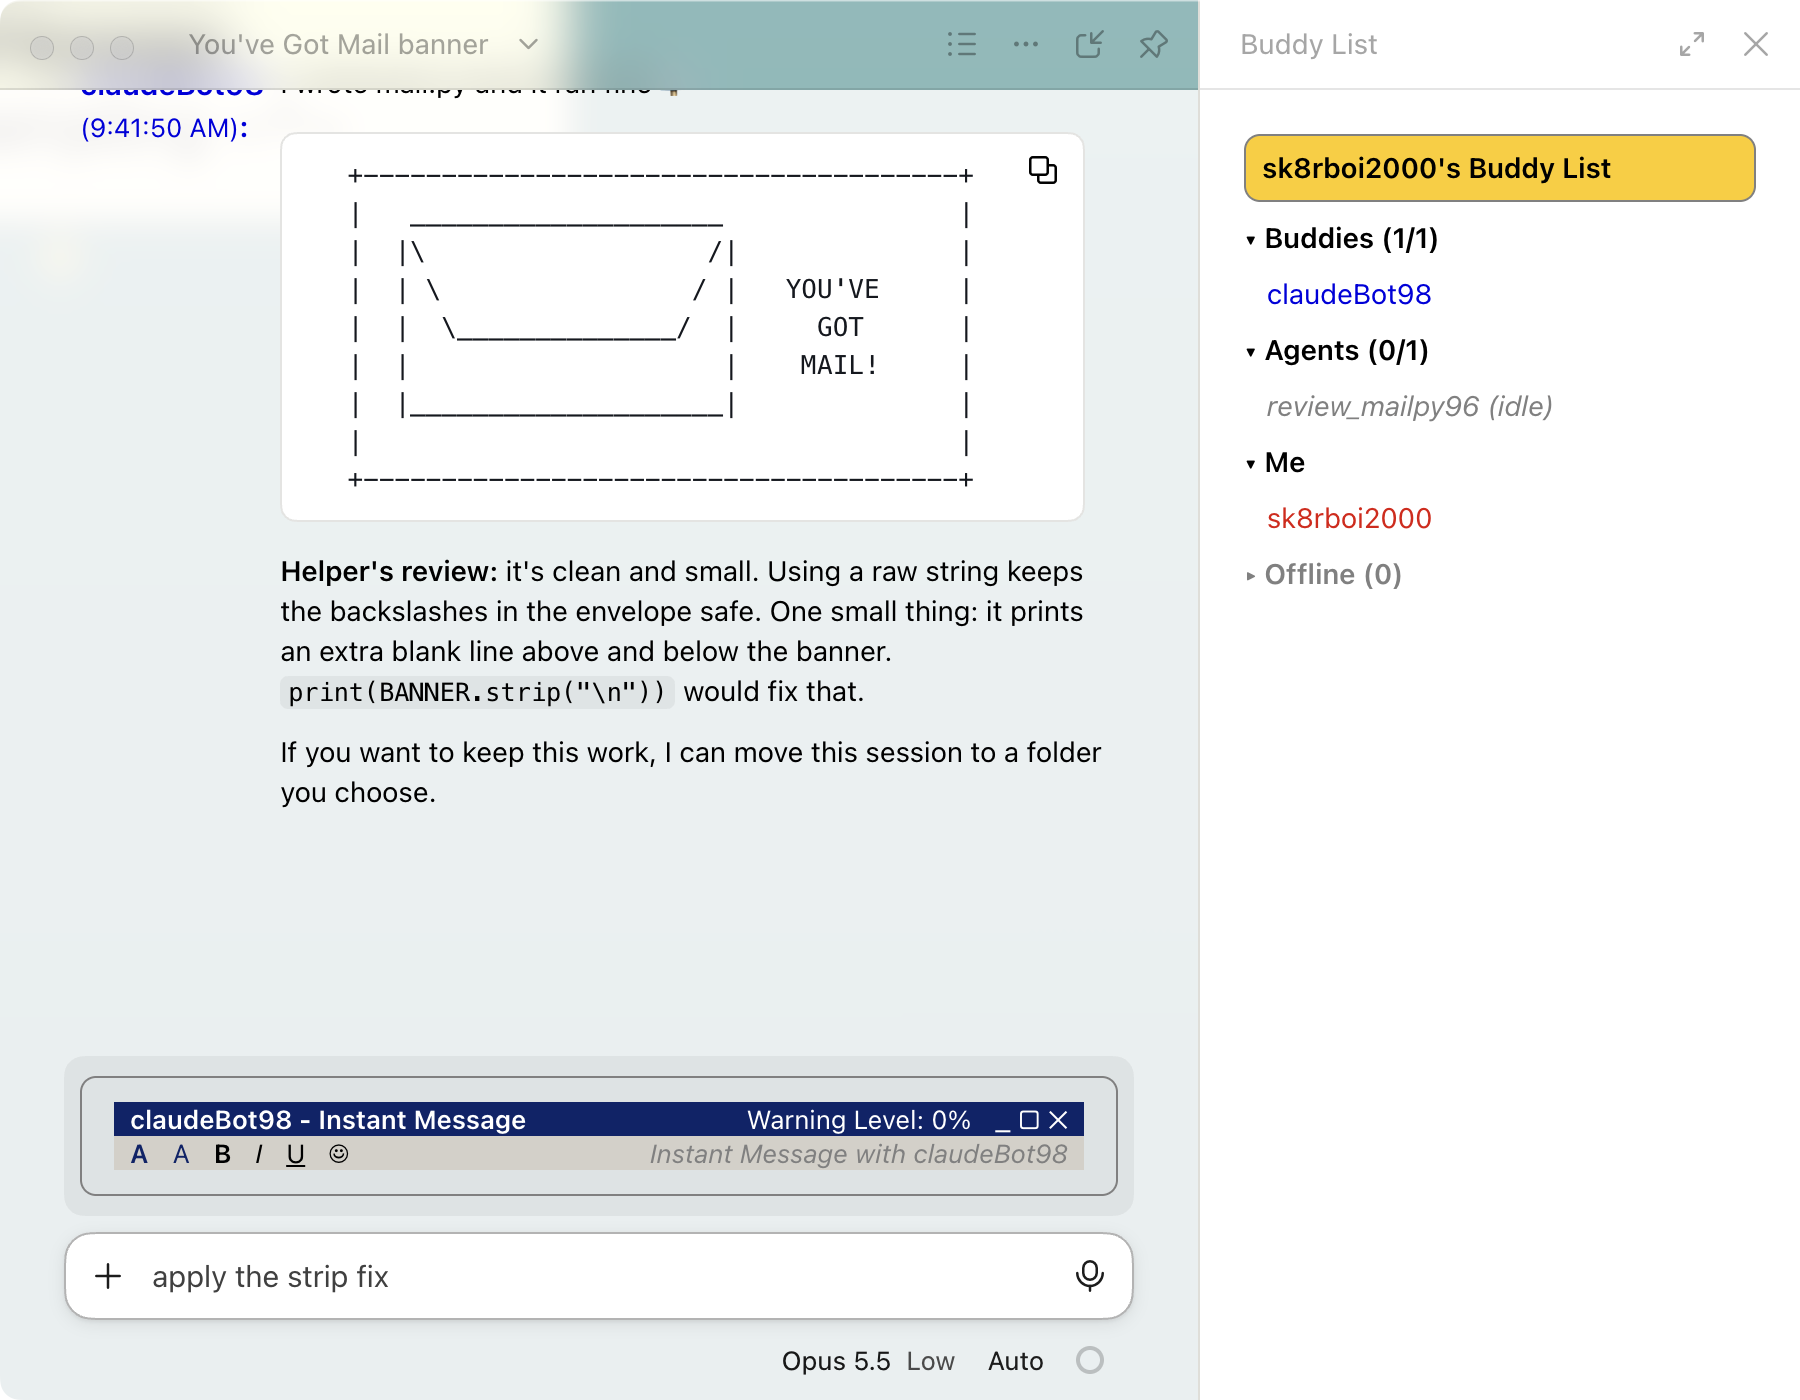
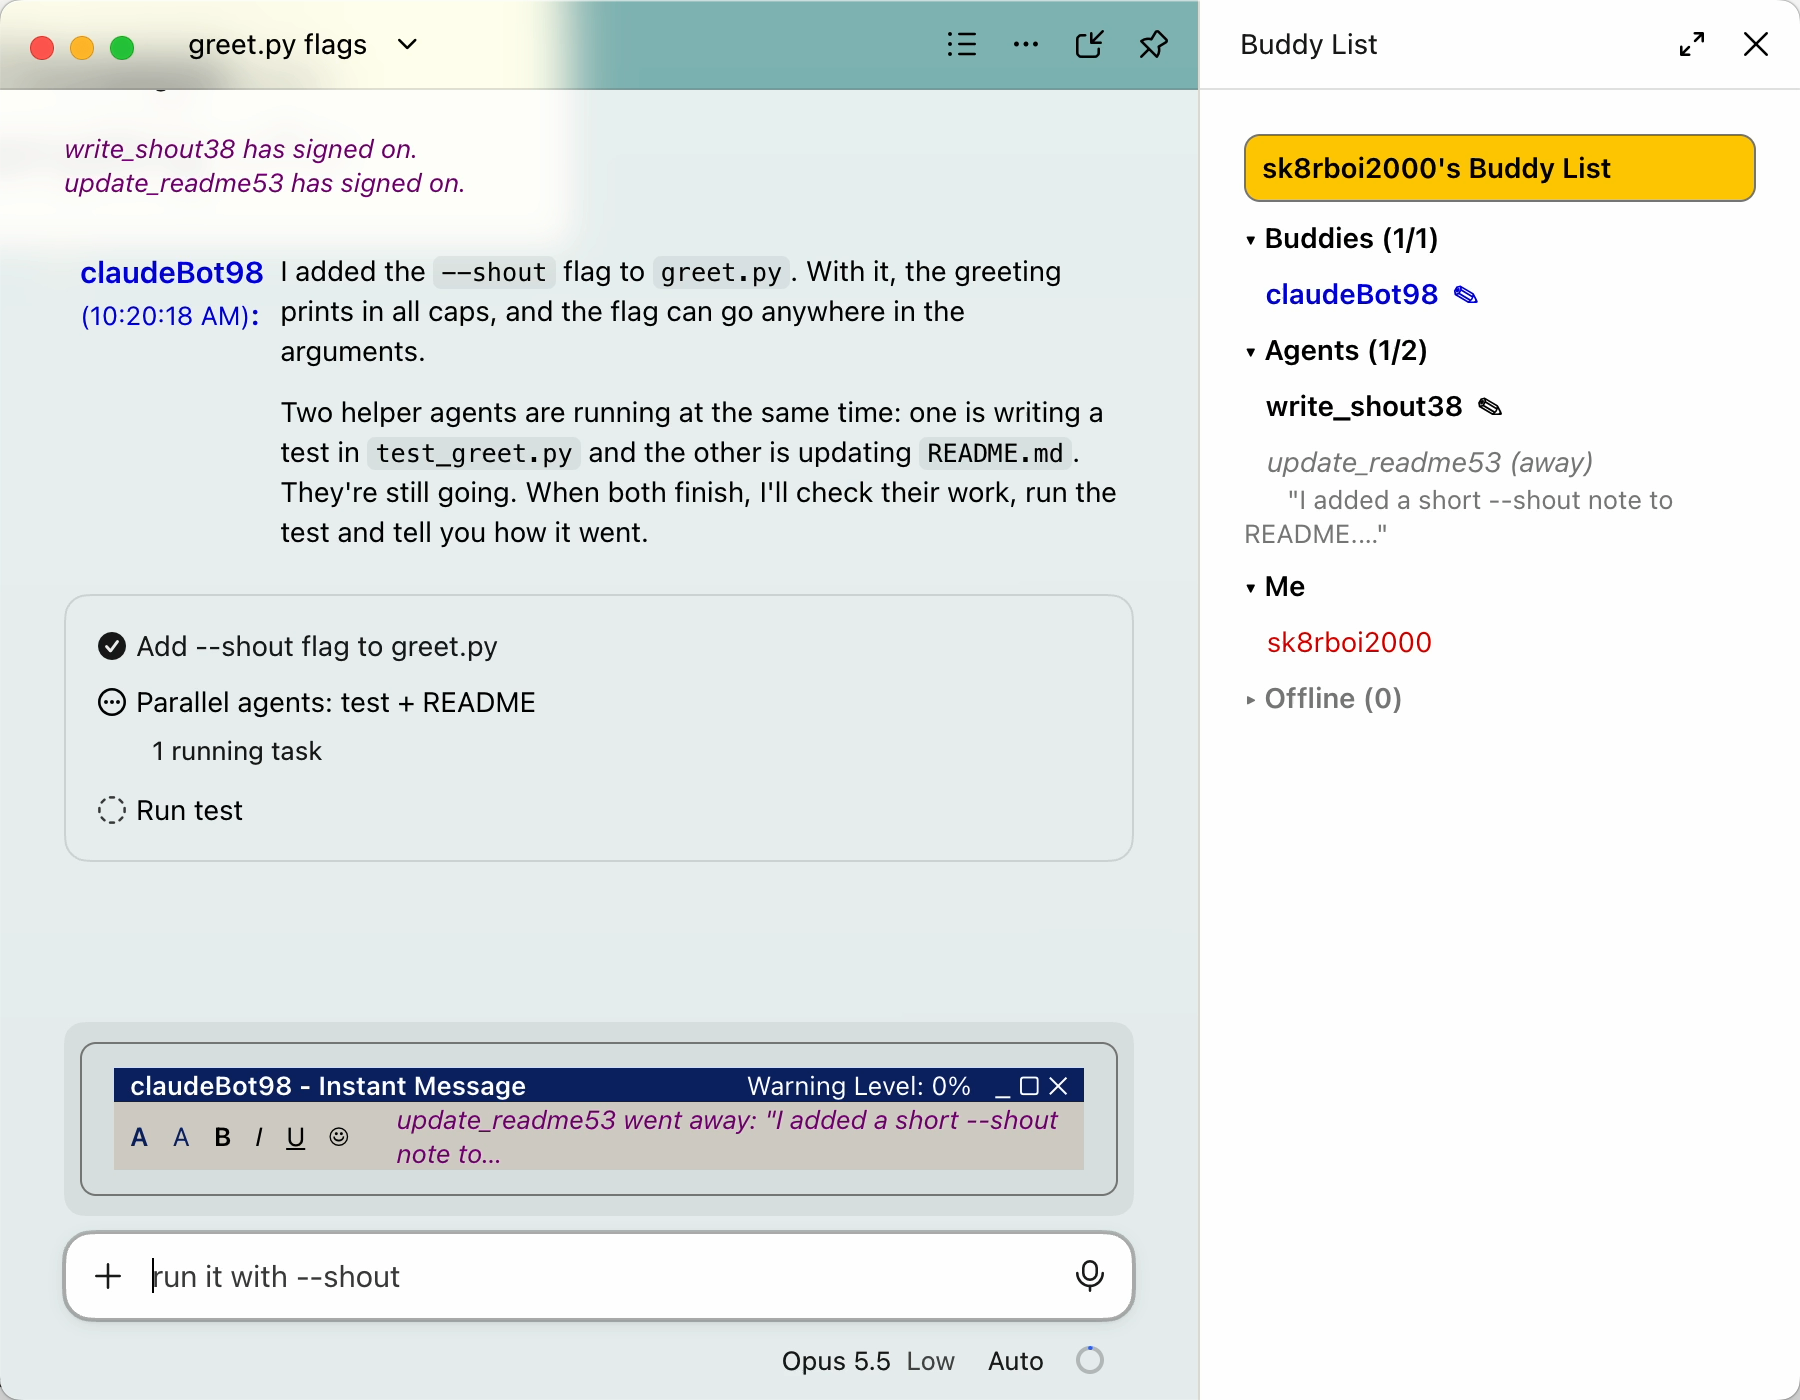
New demo media; no sign-on line before an agent has its name

diff --git a/hooks/register.tsx b/hooks/register.tsx
@@ -94,6 +94,14 @@ const screenNameFor = (description: unknown) => {
   return clip(`${stem}${String(hash).padStart(2, '0')}`, 18)
 }
 
+const isAgentTool = (tool: string) => tool === 'Agent' || tool === 'Task'
+
+const hasDescription = (input: unknown) =>
+  typeof input === 'object' &&
+  input !== null &&
+  typeof (input as Record<string, unknown>).description === 'string' &&
+  ((input as Record<string, unknown>).description as string).trim() !== ''
+
 // What the IM window would have said about each tool call.
 const toolLine = (tool: string, input: Record<string, unknown>, isDone: boolean) => {
   switch (tool) {
@@ -119,6 +127,11 @@ const toolLine = (tool: string, input: Record<string, unknown>, isDone: boolean)
       return `${BUDDY_NAME} is surfing the web: ${clip(String(input.query ?? input.url ?? ''), 50)}`
     case 'Agent':
     case 'Task':
+      // While the call's input is still arriving it has no description yet: no name to sign on with.
+      if (!hasDescription(input)) {
+        return `${BUDDY_NAME} is inviting a buddy...`
+      }
+
       return `${screenNameFor(input.description)} ${isDone ? 'went away.' : 'has signed on.'}`
     default:
       return isDone ? `${BUDDY_NAME} has accepted your request (${tool})` : `${BUDDY_NAME} sent a request: ${tool}`
@@ -231,7 +244,7 @@ const awayFrom = (answer: string) => {
   return clip(sentence.replace(/[.]+$/, ''), 70) || 'brb'
 }
 
-const isAgentTool = (tool: string) => tool === 'Agent' || tool === 'Task'
+
 
 // The time a message first showed up. Kept in memory, since drawing may not
 // write state; a reload stamps older messages with the reload's time.
@@ -558,7 +571,7 @@ export const register: Register = on => {
 
   // A collapsed group of tool calls ("Ran 2 agents"): each agent's sign-on above it.
   on('ui.render', { component: 'ToolGroup' }, async ($, e, next) => {
-    const agents = e.props.calls.filter(c => isAgentTool(c.tool))
+    const agents = e.props.calls.filter(c => isAgentTool(c.tool) && hasDescription(c.input))
 
     if (!isGraphical(e.surface) || e.props.isExpanded || agents.length === 0) {
       return next(e)

diff --git a/README.md b/README.md
@@ -4,9 +4,9 @@ A Claude Code mod that turns the conversation into a late-90s instant-message wi
 
 Best in the Claude desktop app (the look is light mode only).
 
-![The AIM theme in the Claude desktop app: claudeBot98's timestamped reply with an ASCII "You've Got Mail!" banner, the Buddy List pane, and the IM title bar above the prompt](docs/screenshot.png)
+![The AIM theme in the Claude desktop app: two helper agents sign on in purple, claudeBot98's timestamped reply, the Buddy List with one agent away, and an away alert in the IM status strip](docs/screenshot.png)
 
-![Demo: claudeBot98 typing, a helper agent signing on in the Buddy List, and the reply arriving](docs/demo.gif)
+![Demo: sk8rboi2000 asks for a --shout flag, claudeBot98 starts two helper agents that sign on, go away with their away messages, and the reply lands](docs/demo.gif)
 
 ## Install
 
